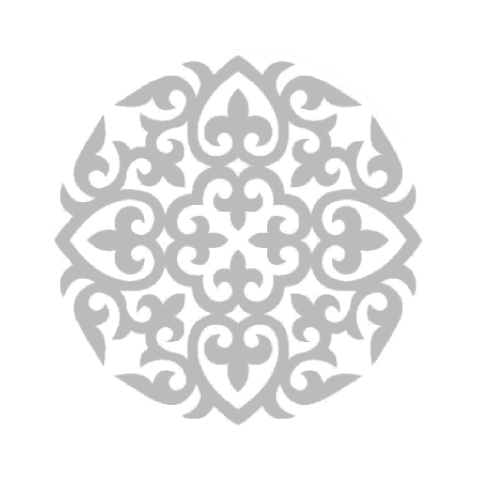
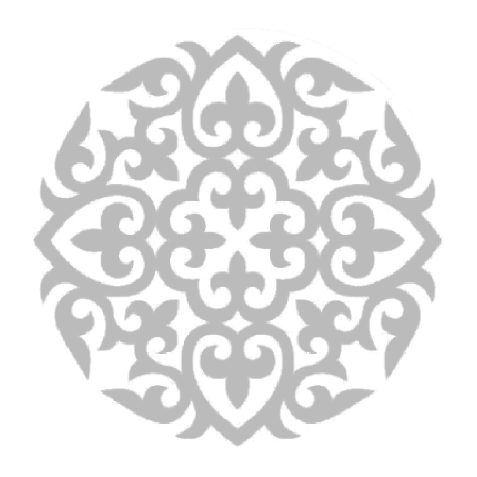
+g

diff --git a/pages/[lang]/index.js b/pages/[lang]/index.js
@@ -49,19 +49,23 @@ const Home = (props) => {
               Первая в Казахстане юридическая фирма, специализированная в
               области разрешения споров
             </h2>
-            <div className="time">
-              <div>Время в Алматы</div>
-              <Clock
-                format={'HH:mm:ss'}
-                ticking={true}
-                timezone={'Asia/Almaty'}
-              />
-            </div>
           </div>
         </header>
         <div className="main__address">
-          77 KONAEV STREET, ALMATY, KAZAKHSTAN T.: +7 727 321 23 17
-          CONTACT@TKL.KZ
+          <nav>
+            <ul>
+              <li>г. Алматы, ул. Конаева, 77</li>
+              <li>T.: +7 727 321 23 17</li>
+              <li>CONTACT@TKL.KZ</li>
+              <li>
+                <Clock
+                  format={'HH:mm'}
+                  ticking={true}
+                  timezone={'Asia/Almaty'}
+                />
+              </li>
+            </ul>
+          </nav>
         </div>
       </div>
     </>

diff --git a/styles/_common.scss b/styles/_common.scss
@@ -55,7 +55,7 @@ header {
   color: $white;
   background-color: $blue;
   background-image: url('/images/pattern.png');
-  background-size: 4%;
+  background-size: 3%;
   height: 65%;
   text-transform: uppercase;
   h1 {
@@ -72,21 +72,6 @@ header {
   h2 {
     font-size: 14px;
     text-align: center;
-  }
-  .time {
-    text-align: center;
-    position: absolute;
-    bottom: 10px;
-    left: 50%;
-    transform: translate(-50%, 0);
-    div {
-      font-size: 10px;
-      margin-bottom: -5px;
-    }
-    time {
-      font-size: 32px;
-      font-weight: 500;
-    }
   }
 }
 
@@ -105,6 +90,12 @@ header {
     font-weight: 500;
     text-align: center;
     margin-top: 8px;
+    li {
+      cursor: default;
+      &:hover {
+        color: $dark;
+      }
+    }
   }
 }
 
